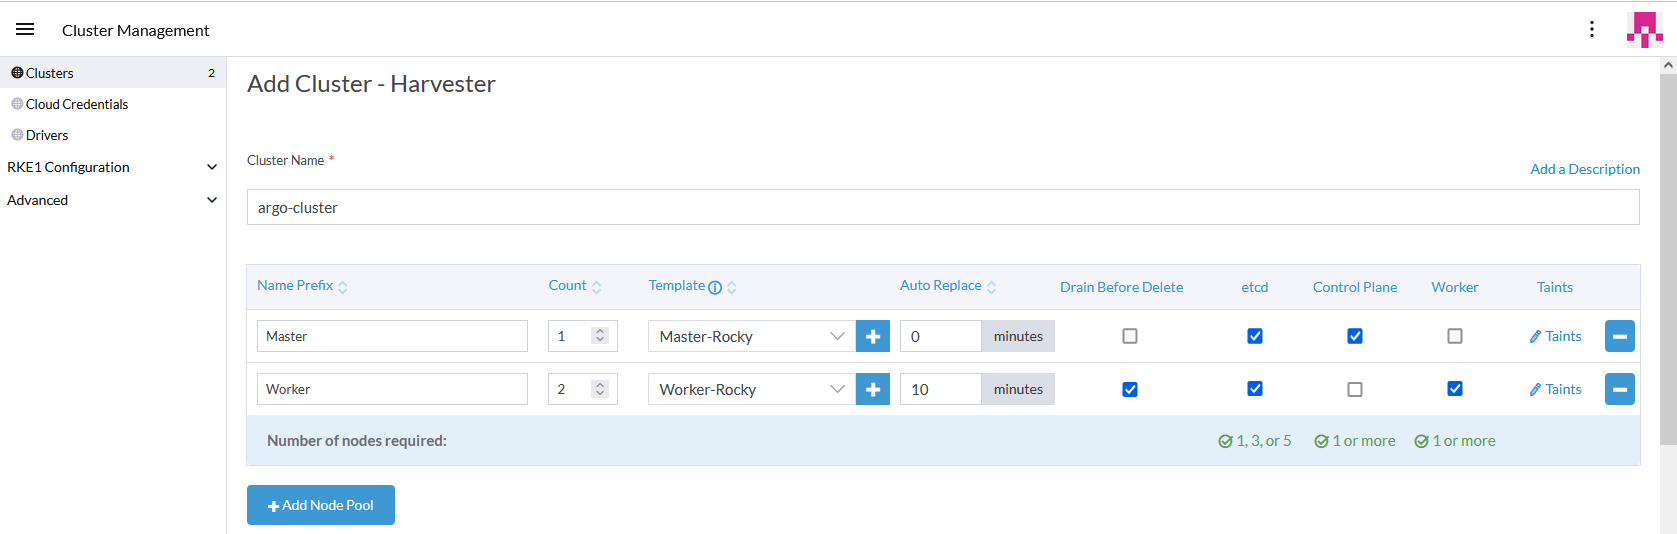
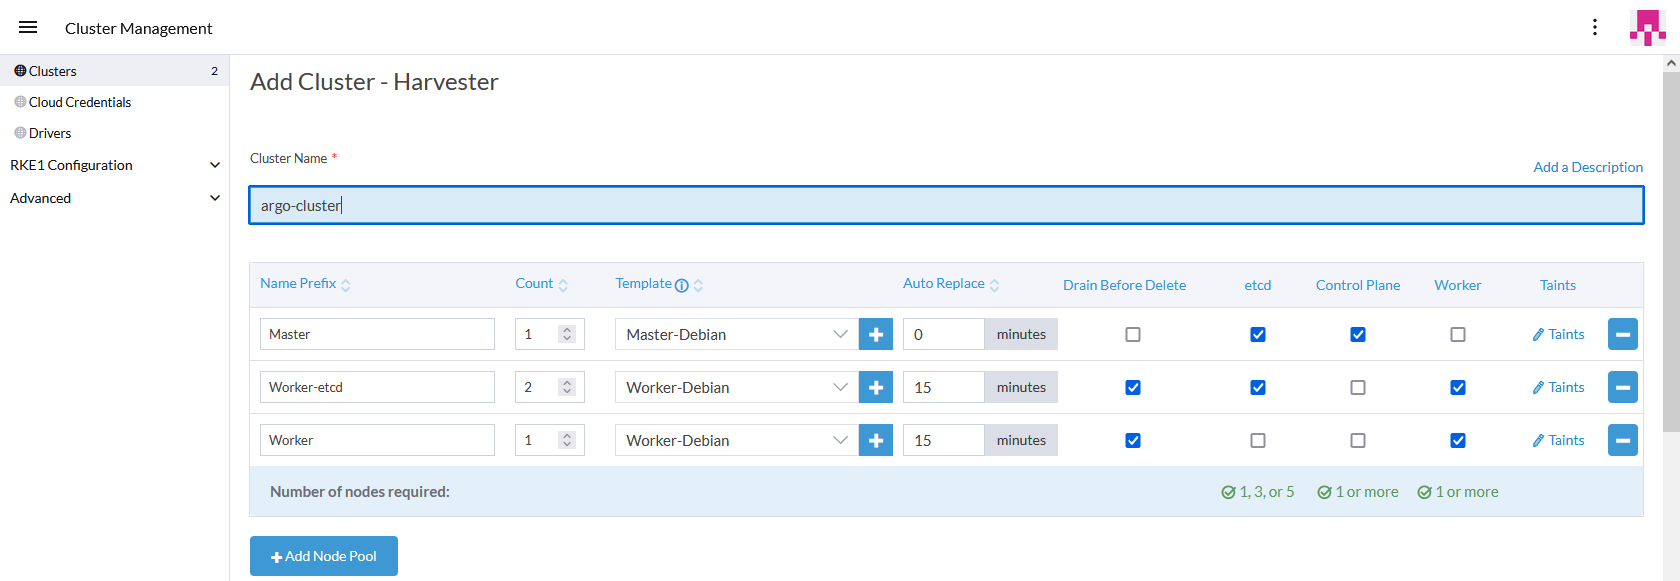
Actualizado esquema de red, terminada creación del cluster

diff --git a/CreacionClusterKubernetes/readme.md b/CreacionClusterKubernetes/readme.md
@@ -8,7 +8,7 @@ Ahora que ya tengo tanto el cluster de Harvester creado y configurado y el servi
 
 Antes de crear el cluster, debo de subir una **imagen con una maquina virtual** con un sistema operativo **linux** a el cluster de harvester para poder elegirla como base para crear los nodos del nuevo cluster de kubernetes. Para esto puedo crear yo mismo la imagen o usar una de las imagenes **versión "cloud"** que nos proporcionan muchos de los SO linux en sus paginas oficiales.
 
-He elegido usar la imagen "CloudGeneric-Base" de Rocky Linux 9.1, la cual la proporciona el propio equipo de rocky linux en su pagina oficial.
+Para el ejemplo de crear una imagen voy a usar la imagen "CloudGeneric-Base" de Rocky Linux 9.1, la cual la proporciona el propio equipo de rocky linux en su pagina oficial, el proceso para subir cualquier otra imagen de SO seria exactamente el mismo.
 
 Lo primero para crear la imagen es ir al menu de **"Images"** de el dashboard de harvester y ahi pulsar el botón de "Create" de arriba a la derecha.
 
@@ -53,3 +53,59 @@ Despues de unos segundos en los que tarda en iniciar la maquina y recibir una ip
 ---
 
 ## Creación del cluster
+
+Una vez creada la imagen del SO base, la cual finalmente sera una de debian 11, se puede crear el **cluster de kubernetes**. En el dashboard, donde aparece el cluster local donde esta instalado rancher, se puede crear un nuevo cluster pulsando en el boton "Create".
+
+<img src="Images/Captura1.PNG" width="1000">
+
+Se abre una ventana donde podemos elegir desde donde queremos provisionar las maquinas para los nodos del kluster, hay varias opciones, Azure, Amazon EKS, Amazon EC2, etc. Pero el que voy a elegir es Harvester. Aqui tambien tenemos la opción de elegir que tipo de distribucion de kubernetes vamos a instalar, las opciones que hay son RKE2, RKE1 y KS3. Yo voy a instalar RKE1 ya que es la versión más compatible con la instalación de rancher que tengo.
+
+<img src="Images/Captura2.PNG" width="1000">
+
+Una vez se elige la distribución de kubernetes y el origen del provisionamiento se abre la ventana de creación del cluster, aqui hay que configurar varias cosas, lo primero seria configurar varias **plantillas de nodos**, en este caso hare dos, una para los nodos "Master" y otra para los nodos "Workers". Para creear estas plantillas hay que pulsar en el boton de **"Add Node Template"** que aparece dentro de cada "Node pool", el cual es una definición de las funciones y cantidad de maquinas que tendremos en el cluster por cada template que se quiera añadir. 
+
+<img src="Images/Captura3.PNG" width="1000">
+
+Yo solo voy a usar nodos "Master" y "Workers" ya que no me hace falta más para el proyecto, pero en el caso de un entorno de producción de una empresa podriamos diferenciar otros tipos de nodos que sirviesen para cosas más especificas como por ejempo nodos para aplicaciones con alta prioridad que tengan más recursos y más replicas, nodos para aplicaciones más pesadas que deban correr en una misma maquina, etc.
+
+Una vez abro la creación de la plantilla del nodo lo primero que hay que configurar es unas **"Cloud Credentials"**, estas sirven para más tarde poder darle acceso a distintos usuarios a las maquinas del cluster, es simplemente crear una nueva o asignar una ya existente y luego la podre asignar a los usuarios. 
+
+Lo siguiente que hay que configurar son las **caracteristicas hardware** del nodo, el **namespace** donde se van a alojar los nodos, el **usuario ssh** con el que se puede acceder al SO y los **volumenes** de datos que tendra ese nodo. Dentro del volumen root hay que elegir la **imagen del sistema** que he creado anteriormente. 
+
+<img src="Images/Captura4.PNG" width="1000">
+
+Ahora hay que configurar las disntintas **redes** a las que estara conectado el nodo, en este caso estara unicamente conectado a la red de VM (129). 
+
+<img src="Images/Captura5.PNG" width="1000">
+
+Por último hay que configurar un **nombre para la plantilla** y las etiquetas y taints que va a tener este nodo de kubernetes, en el master he añadido un taint que impide que se añada ningun pod nuevo a esa maquina que no este esplicitamente especificado. Para terminar pulso el botón de "Create" de abajo y procedo a crear la plantilla del Worker.
+
+<img src="Images/Captura6.PNG" width="1000">
+
+Las diferencias entre la plantilla del master y worker son que el master tiene especificaciones hardware menores ya que este no va a alojar ningun pod que no sea del propio kubernetes y que en el worker no añado el taint. 
+
+<img src="Images/Captura7.PNG" width="1000">
+
+<img src="Images/Captura8.PNG" width="1000">
+
+Una vez configuradas las plantillas, tenemos que elegir las **funciones** de cada tipo de maquina, tenemos 3 funciones que pueden cumplir los nodos, **etcd**, el cual es un sistema de control de datos que debe tener 1,3 o 5 nodos como maximo, **Control Plane**, esto hace referencia a los nodos que van a ser master del cluster y **Worker** que por el contrario seran los nodos que se dedicaran para la ejecución de las aplicaciones. 
+
+Las otras opciones que tenemos son **Drain before delete** lo cual hace referencia a si cuando se vaya a borrar un nodo de ese tipo hay que esperar a que los pods que haya corriendo en el se transladen a otro nodo o no, **Auto Replace**, si ponemos aqui un tiempo especifico sera el tiempo maximo que podra estar un nodo sin responder antes de que se elimine automaticamente y por último se pueden poner **taints** especificos para cada pool a parte de los que tenga el template.
+
+He añadido otra **Node pool** con la misma plantilla de worker pero sin etcd para poder escalar más facilmente el cluster.
+
+<img src="Images/Captura9.PNG" width="1000">
+
+Hechas estas configuraciones, no haria falta tocar nada más a parte de darle un nombre al cluster que vamos a crear, pero en caso de ser necesario o querer especificar alguna configuración más avanzada del cluster, como los usuarios de rancher que tienen acceso a este cluster o la versión de RKE que vamos a instalar, se puede hacer con el resto de **opciones de creación del cluster**. En este cluster he dejado las opciones por defecto.
+
+<img src="Images/Captura10.PNG" width="1000">
+
+Por último pulso el botón de "Create" y empezara la creación del cluster de manera automatizada, si pulsamos sobre el cluster en rancher se puede ir viendo el punto de este proceso en el que esta o si hay algun tipo de error tambien se vera aqui.
+
+<img src="Images/Captura11.PNG" width="1000">
+
+<img src="Images/Captura12.PNG" width="1000">
+
+Si voy a el dashboard de Harvester y miro la sección de "Virtual Machines" vere que se han creado automaticamente las maquinas de los nodos.
+
+<img src="Images/Captura13.PNG" width="1000">

diff --git a/README.md b/README.md
@@ -52,6 +52,7 @@ También, al estar basada en clústeres y replicada y tener varios enlaces dupli
 - Al instalar docker para rancher hay que instalar una versión concreta, no sirven las ultimas.
 - <del>Al intentar instalar el chart de helm de rancher sobre RKE hay incompatibilidades con la ultima version, para solocuinarlo he decidido instalar RKE2 en vez de RKE normal.</del> (Vuelta a RKE1, ya que habia incompatibilidades con RKE2, conseguido arreglar incompatibilidades de versiones de RKE1 desactivando PSP)
 - Al instalar cert-manager hay que asegurarse de instalar la ultima versión compatible con la versión de kubernetes que se tenga instalada, en la guia oficial de la instalación de rancher hay una versión demasiado antigua y no funcionara.
+- Al intentar crear un cluster kubernetes con rancher usando la imagen de Rocky Linux da un fallo al detectar la ip, he cambiado la imagen a debian 11.
 ---
 
 ## Documentación y manuales usados para el proyecto
@@ -77,7 +78,8 @@ También, al estar basada en clústeres y replicada y tener varios enlaces dupli
 
 `Cluster Kubernetes`
 
-- http://download.rockylinux.org/pub/rocky/9.1/images/x86_64/
+- https://dl.rockylinux.org/vault/rocky/9.0/images/x86_64/
+- https://cloud.debian.org/images/cloud/bullseye/latest/
 
 ---
 
